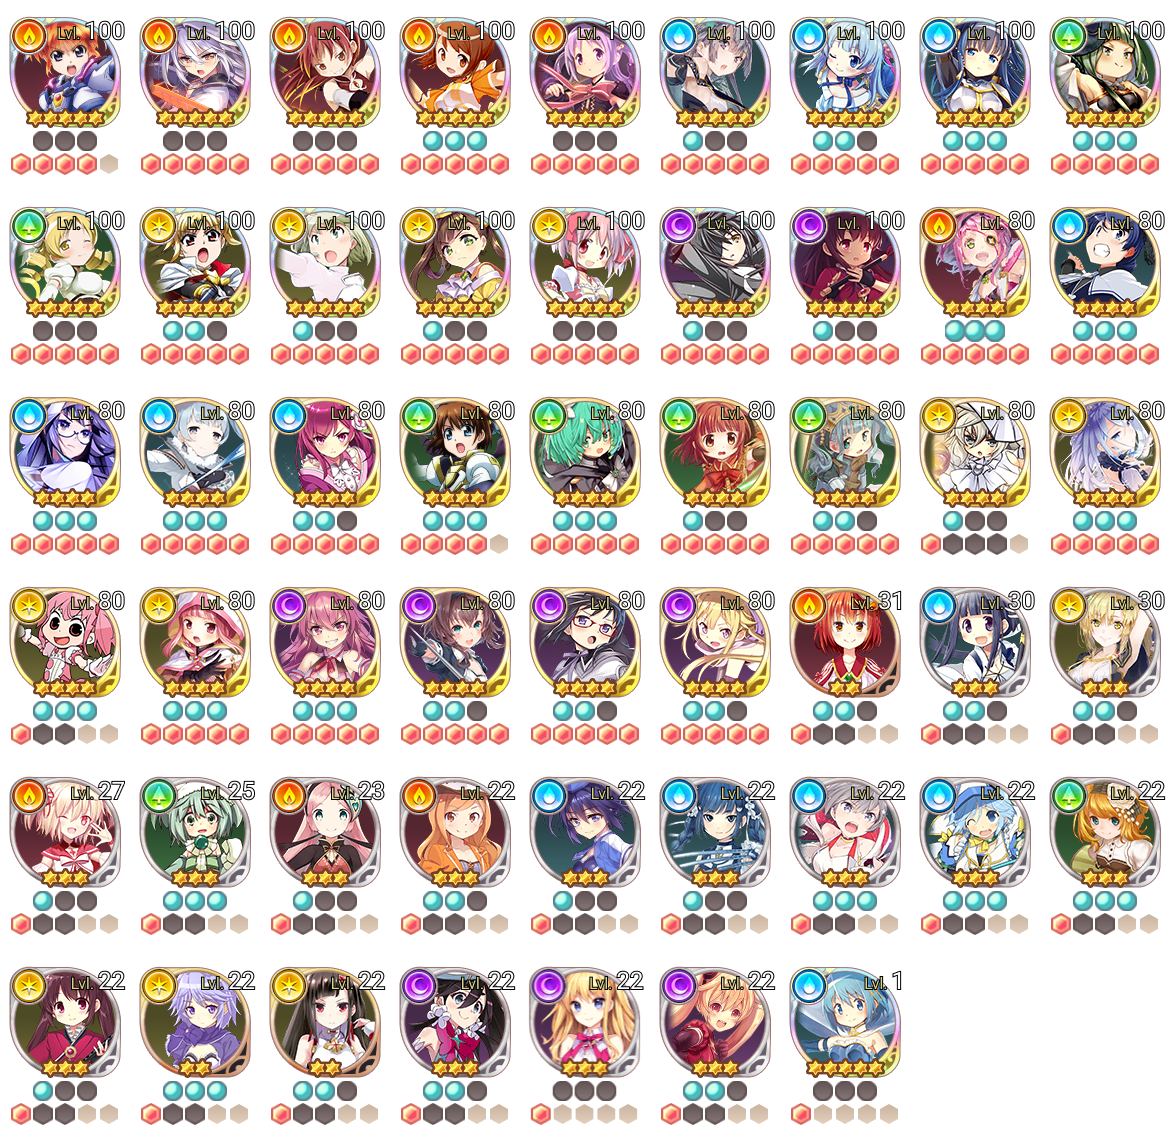
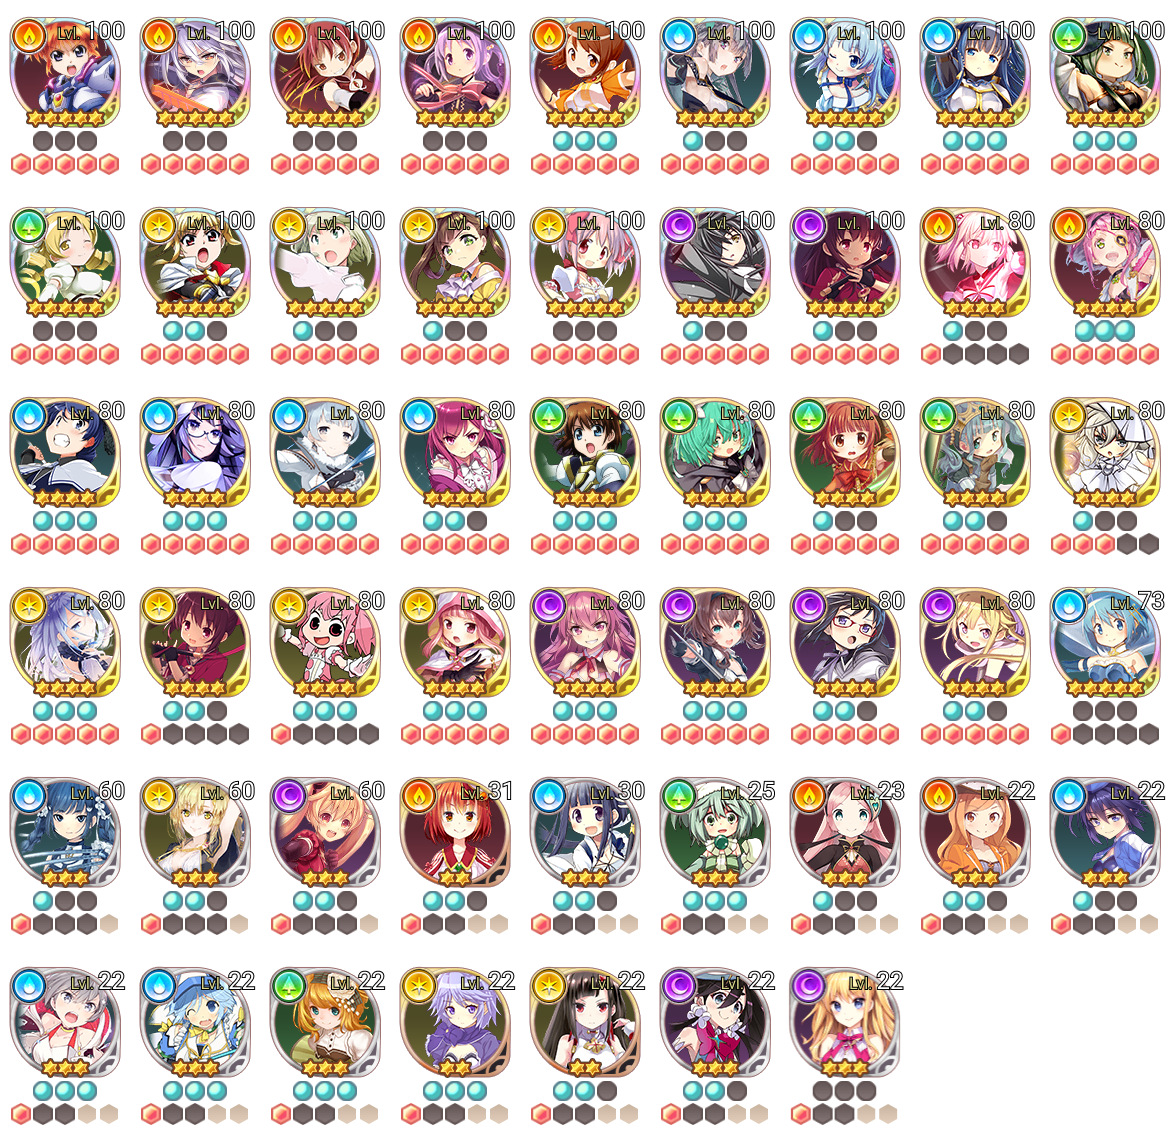
Improved Sorting and Version Compare
Added Second Sort Parameter.
Added Group By Direction.
Updated Document Version Comparison.

diff --git a/src/character.ts b/src/character.ts
@@ -113,23 +113,23 @@ function setCharacter (instance: InstanceNode, attribute: string, rank: string, 
     background_instance.masterComponent = figma.getNodeById("1:118") as ComponentNode;
   }
 
-  if (rank == "1") {
+  if (rank == "One") {
     frame_intance.masterComponent = figma.getNodeById("1:97") as ComponentNode;
     star_instance.masterComponent = figma.getNodeById("1:124") as ComponentNode;
   }
-  else if (rank == "2") {
+  else if (rank == "Two") {
     frame_intance.masterComponent = figma.getNodeById("1:98") as ComponentNode;
     star_instance.masterComponent = figma.getNodeById("1:125") as ComponentNode;
   }
-  else if (rank == "3") {
+  else if (rank == "Three") {
     frame_intance.masterComponent = figma.getNodeById("1:99") as ComponentNode;
     star_instance.masterComponent = figma.getNodeById("1:126") as ComponentNode;
   }
-  else if (rank == "4") {
+  else if (rank == "Four") {
     frame_intance.masterComponent = figma.getNodeById("1:100") as ComponentNode;
     star_instance.masterComponent = figma.getNodeById("1:127") as ComponentNode;
   }
-  else if (rank == "5") {
+  else if (rank == "Five") {
     frame_intance.masterComponent = figma.getNodeById("1:101") as ComponentNode;
     star_instance.masterComponent = figma.getNodeById("1:128") as ComponentNode;
   }
@@ -156,30 +156,30 @@ function setLevel (instance: InstanceNode, level: string) {
 // sets the magic level.
 function setMagic (instance: InstanceNode, magic: string) {
   var magic_instance = instance.children[1] as InstanceNode;
-  if      (magic == "0")   magic_instance.masterComponent = figma.getNodeById("3:896") as ComponentNode;
-  else if (magic == "1")   magic_instance.masterComponent = figma.getNodeById("3:13") as ComponentNode;
-  else if (magic == "2")   magic_instance.masterComponent = figma.getNodeById("7:470") as ComponentNode;
-  else if (magic == "3")   magic_instance.masterComponent = figma.getNodeById("7:477") as ComponentNode;
+  if      (magic == "Zero")   magic_instance.masterComponent = figma.getNodeById("3:896") as ComponentNode;
+  else if (magic == "One")   magic_instance.masterComponent = figma.getNodeById("3:13") as ComponentNode;
+  else if (magic == "Two")   magic_instance.masterComponent = figma.getNodeById("7:470") as ComponentNode;
+  else if (magic == "Three")   magic_instance.masterComponent = figma.getNodeById("7:477") as ComponentNode;
 };
 
 // sets the magia and episode level.
 function setMagia (instance: InstanceNode, magia: string, episode: string) {
   var magia_instance = instance.children[0] as InstanceNode;
-  if      (magia == "1" && episode == "1")   magia_instance.masterComponent = figma.getNodeById("10:1993") as ComponentNode;
-  else if (magia == "1" && episode == "2")   magia_instance.masterComponent = figma.getNodeById("10:1960") as ComponentNode;
-  else if (magia == "1" && episode == "3")   magia_instance.masterComponent = figma.getNodeById("10:1911") as ComponentNode;
-  else if (magia == "1" && episode == "4")   magia_instance.masterComponent = figma.getNodeById("10:1846") as ComponentNode;
-  else if (magia == "1" && episode == "5")   magia_instance.masterComponent = figma.getNodeById("3:41") as ComponentNode;
-  else if (magia == "2" && episode == "2")   magia_instance.masterComponent = figma.getNodeById("10:1961") as ComponentNode;
-  else if (magia == "2" && episode == "3")   magia_instance.masterComponent = figma.getNodeById("10:1912") as ComponentNode;
-  else if (magia == "2" && episode == "4")   magia_instance.masterComponent = figma.getNodeById("10:1847") as ComponentNode;
-  else if (magia == "2" && episode == "5")   magia_instance.masterComponent = figma.getNodeById("7:496") as ComponentNode;
-  else if (magia == "3" && episode == "3")   magia_instance.masterComponent = figma.getNodeById("10:1913") as ComponentNode;
-  else if (magia == "3" && episode == "4")   magia_instance.masterComponent = figma.getNodeById("10:1848") as ComponentNode;
-  else if (magia == "3" && episode == "5")   magia_instance.masterComponent = figma.getNodeById("7:507") as ComponentNode;
-  else if (magia == "4" && episode == "4")   magia_instance.masterComponent = figma.getNodeById("10:1849") as ComponentNode;
-  else if (magia == "4" && episode == "5")   magia_instance.masterComponent = figma.getNodeById("7:514") as ComponentNode;
-  else if (magia == "5" && episode == "5")   magia_instance.masterComponent = figma.getNodeById("7:521") as ComponentNode;
+  if      (magia == "One" && episode == "One")   magia_instance.masterComponent = figma.getNodeById("10:1993") as ComponentNode;
+  else if (magia == "One" && episode == "Two")   magia_instance.masterComponent = figma.getNodeById("10:1960") as ComponentNode;
+  else if (magia == "One" && episode == "Three")   magia_instance.masterComponent = figma.getNodeById("10:1911") as ComponentNode;
+  else if (magia == "One" && episode == "Four")   magia_instance.masterComponent = figma.getNodeById("10:1846") as ComponentNode;
+  else if (magia == "One" && episode == "Five")   magia_instance.masterComponent = figma.getNodeById("3:41") as ComponentNode;
+  else if (magia == "Two" && episode == "Two")   magia_instance.masterComponent = figma.getNodeById("10:1961") as ComponentNode;
+  else if (magia == "Two" && episode == "Three")   magia_instance.masterComponent = figma.getNodeById("10:1912") as ComponentNode;
+  else if (magia == "Two" && episode == "Four")   magia_instance.masterComponent = figma.getNodeById("10:1847") as ComponentNode;
+  else if (magia == "Two" && episode == "Five")   magia_instance.masterComponent = figma.getNodeById("7:496") as ComponentNode;
+  else if (magia == "Three" && episode == "Three")   magia_instance.masterComponent = figma.getNodeById("10:1913") as ComponentNode;
+  else if (magia == "Three" && episode == "Four")   magia_instance.masterComponent = figma.getNodeById("10:1848") as ComponentNode;
+  else if (magia == "Three" && episode == "Five")   magia_instance.masterComponent = figma.getNodeById("7:507") as ComponentNode;
+  else if (magia == "Four" && episode == "Four")   magia_instance.masterComponent = figma.getNodeById("10:1849") as ComponentNode;
+  else if (magia == "Four" && episode == "Five")   magia_instance.masterComponent = figma.getNodeById("7:514") as ComponentNode;
+  else if (magia == "Five" && episode == "Five")   magia_instance.masterComponent = figma.getNodeById("7:521") as ComponentNode;
 };
 
 
@@ -211,23 +211,23 @@ function parametersValid (msg: any) {
       result.name_valid = true;
       if (child.name.includes("/Rank " + msg.rank)) {
         result.rank_valid = true;
-        if (msg.rank == "1") {
+        if (msg.rank == "One") {
           if (level >= 1 && level <= 40) result.level_valid = true;
           else result.message += "Experience Level must be between 1 and 40 for rank 1.\n";
         }
-        else if (msg.rank == "2") {
+        else if (msg.rank == "Two") {
           if (level >= 1 && level <= 50) result.level_valid = true;
           else result.message += "Experience Level must be between 1 and 50 for rank 2.\n";
         }
-        else if (msg.rank == "3") {
+        else if (msg.rank == "Three") {
           if (level >= 1 && level <= 60) result.level_valid = true;
           else result.message += "Experience Level must be between 1 and 60 for rank 3.\n";
         }
-        else if (msg.rank == "4") {
+        else if (msg.rank == "Four") {
           if (level >= 1 && level <= 80) result.level_valid = true;
           else result.message += "Experience Level must be between 1 and 80 for rank 4.\n";
         }
-        else if (msg.rank == "5") {
+        else if (msg.rank == "Five") {
           if (level >= 1 && level <= 100) result.level_valid = true;
           else result.message += "Experience Level must be between 1 and 100 for rank 5.\n";
         }
@@ -309,7 +309,9 @@ function isCharacterDisplayInstance(node: SceneNode) {
   else return false;
 }
 
-function sortDisplays(group_by: string, sort_by: string, sort_dir: number, sort_id_dir: number, num_per_row: number) {
+const ATTRIBUTE_ORDER = {"Fire": 0, "Water": 1, "Forest": 2, "Light": 3, "Dark": 4, "Void": 5};
+
+function sortDisplays(group_by: string, group_dir: number, sort_by_1: string, sort_dir_1: number, sort_by_2: string, sort_dir_2: number, sort_id_dir: number, num_per_row: number) {
   
   // get the display properties of all the children in the frame.
   var display_properties = [];
@@ -318,12 +320,26 @@ function sortDisplays(group_by: string, sort_by: string, sort_dir: number, sort_
   });
 
   // add each display_property to the corresponding group.
-  var display_groups = group_properties(display_properties, group_by);
+  var display_groups = group_properties(display_properties, group_by, group_dir);
+
+  // convert attributes to numbers.
+  for (var group_name in display_groups) {
+    var group = display_groups[group_name];
+    group.forEach(function(properties: any) {
+      var attribute = properties["attribute"];
+      properties["attribute"] = ATTRIBUTE_ORDER[attribute];
+    })
+  }
   
   // sort each group by the specified property.
-  var sortBy = [
-    { prop: sort_by, direction: sort_dir, isString: false },
-    { prop: "id", direction: sort_id_dir, isString: false }];
+  var sortBy = [];
+  if (sort_by_1 != "none") {
+    sortBy.push({ prop: sort_by_1, direction: sort_dir_1, isString: false });
+  }
+  if (sort_by_2 != "none") {
+    sortBy.push({ prop: sort_by_2, direction: sort_dir_2, isString: false });
+  }
+  sortBy.push({ prop: "id", direction: sort_id_dir, isString: false });
 
   for (var group in display_groups) {
     display_groups[group] = display_groups[group].sort((a: any, b: any) => sortArrayBy(a,b,sortBy));
@@ -332,33 +348,40 @@ function sortDisplays(group_by: string, sort_by: string, sort_dir: number, sort_
   placeCharacterDisplays(display_groups, num_per_row);
 }
 
+const NUM_TO_WORD = {"0": "Zero", "1": "One", "2": "Two", "3": "Three", "4": "Four", "5": "Five"};
+
 // adds each display_property to the corresponding group.
-function group_properties (display_properties: any[], group_by: string) {
+function group_properties (display_properties: any[], group_by: string, group_dir: number) {
   var display_groups = {};
   if (group_by == "attribute") {
-    display_groups = {"Fire": [], "Water": [], "Forest": [], "Light": [], "Dark": [], "Void": []};
+    if (group_dir == 1) display_groups = {"Fire": [], "Water": [], "Forest": [], "Light": [], "Dark": [], "Void": []};
+    if (group_dir == -1) display_groups = {"Void": [], "Dark": [], "Light": [], "Forest": [], "Water": [], "Fire": []};
     display_properties.forEach(function(properties) {
       display_groups[properties["attribute"]].push(properties);
     });
   } else if (group_by == "rank") {
-    display_groups = {"5": [], "4": [], "3": [], "2": [], "1": []};
+    if (group_dir == 1) display_groups = {"One": [], "Two": [], "Three": [], "Four": [], "Five": []};
+    if (group_dir == -1) display_groups = {"Five": [], "Four": [], "Three": [], "Two": [], "One": []};
     display_properties.forEach(function(properties) {
-      display_groups[properties["rank"]].push(properties);
+      display_groups[NUM_TO_WORD[properties["rank"]]].push(properties);
     });
   } else if (group_by == "magic") {
-    display_groups = {"3": [], "2": [], "1": [], "0": []};
+    if (group_dir == 1) display_groups = {"Zero": [], "One": [], "Two": [], "Three": []};
+    if (group_dir == -1) display_groups = {"Three": [], "Two": [], "One": [], "Zero": []};
     display_properties.forEach(function(properties) {
-      display_groups[properties["magic"]].push(properties);
+      display_groups[NUM_TO_WORD[properties["magic"]]].push(properties);
     });
   } else if (group_by == "magia") {
-    display_groups = {"5": [], "4": [], "3": [], "2": [], "1": []};
+    if (group_dir == 1) display_groups = {"One": [], "Two": [], "Three": [], "Four": [], "Five": []};
+    if (group_dir == -1) display_groups = {"Five": [], "Four": [], "Three": [], "Two": [], "One": []};
     display_properties.forEach(function(properties) {
-      display_groups[properties["magia"]].push(properties);
+      display_groups[NUM_TO_WORD[properties["magia"]]].push(properties);
     });
   } else if (group_by == "episode") {
-    display_groups = {"5": [], "4": [], "3": [], "2": [], "1": []};
+    if (group_dir == 1) display_groups = {"One": [], "Two": [], "Three": [], "Four": [], "Five": []};
+    if (group_dir == -1) display_groups = {"Five": [], "Four": [], "Three": [], "Two": [], "One": []};
     display_properties.forEach(function(properties) {
-      display_groups[properties["episode"]].push(properties);
+      display_groups[NUM_TO_WORD[properties["episode"]]].push(properties);
     });
   } else if (group_by == "none") {
     display_groups = {"none": []};

diff --git a/src/ui.html b/src/ui.html
@@ -82,7 +82,7 @@
             <div id="sorting_fields" align="left">
                 <table id="sorting_table" width=100%>
                     <tr>
-                        <td>Group By: 
+                        <td title="Group by this property.">Group By:</td>
                         <td><select id="group_by">
                                 <option selected value="Attribute">Attribute</option>
                                 <option value="Rank">Rank</option>
@@ -92,28 +92,51 @@
                                 <option value="None">None</option>
                             </select>
                         </td>
+                        <td><select id="group_dir">
+                            <option selected value="Ascending">Ascending</option>
+                            <option value="Descending">Descending</option>
+                            </select>
+                        </td>
                     </tr>
                     <tr>
-                        <td>Sort By: 
-                        <td><select id="sort_by">
+                        <td title="Sort by this property first.">Sort By 1:</td>
+                        <td><select id="sort_by_1">
+                                <option value="Attribute">Attribute</option>
                                 <option value="Rank">Rank</option>
                                 <option selected value="Level">Level</option>
                                 <option value="Magic">Magic</option>
                                 <option value="Magia">Magia</option>
                                 <option value="Episode">Episode</option>
+                                <option value="None">None</option>
+                            </select>
+                        </td>
+                        <td><select id="sort_dir_1">
+                            <option value="Ascending">Ascending</option>
+                            <option selected value="Descending">Descending</option>
                             </select>
                         </td>
                     </tr>
                     <tr>
-                        <td>Sort Direction: 
-                        <td><select id="sort_dir">
-                                <option value="Ascending">Ascending</option>
-                                <option selected value="Descending">Descending</option>
+                        <td title="Sort by this property second.">Sort By 2:</td>
+                        <td><select id="sort_by_2">
+                                <option value="Attribute">Attribute</option>
+                                <option value="Rank">Rank</option>
+                                <option value="Level">Level</option>
+                                <option value="Magic">Magic</option>
+                                <option value="Magia">Magia</option>
+                                <option value="Episode">Episode</option>
+                                <option selected value="None">None</option>
+                            </select>
+                        </td>
+                        <td><select id="sort_dir_2">
+                            <option value="Ascending">Ascending</option>
+                            <option selected value="Descending">Descending</option>
                             </select>
                         </td>
                     </tr>
                     <tr>
-                        <td>ID Sort Direction: 
+                        <td title="Sort by the id of the character last.">ID Sort Direction:</td>
+                        <td></td>
                         <td><select id="sort_id_dir">
                                 <option value="Ascending">Ascending</option>
                                 <option selected value="Descending">Descending</option>

diff --git a/src/ui.ts b/src/ui.ts
@@ -32,8 +32,11 @@ const ui = {
     sorting: {
       fields: {
         group_select:        document.getElementById('group_by') as HTMLSelectElement,
-        sort_select:         document.getElementById('sort_by') as HTMLSelectElement,
-        sort_dir_select:     document.getElementById('sort_dir') as HTMLSelectElement,
+        group_dir_select:        document.getElementById('group_dir') as HTMLSelectElement,
+        sort_by_1_select:         document.getElementById('sort_by_1') as HTMLSelectElement,
+        sort_dir_1_select:     document.getElementById('sort_dir_1') as HTMLSelectElement,
+        sort_by_2_select:         document.getElementById('sort_by_2') as HTMLSelectElement,
+        sort_dir_2_select:     document.getElementById('sort_dir_2') as HTMLSelectElement,
         sort_id_dir_select:  document.getElementById('sort_id_dir') as HTMLSelectElement,
         row_field:           document.getElementById('displays_per_row') as HTMLInputElement,
       },
@@ -169,11 +172,14 @@ document.getElementById('convert').onclick = () => {
 // Group and sort the current selection.
 document.getElementById('sort').onclick = () => {
   const group_by = ui.tabs.sorting.fields.group_select.value.toLowerCase();
-  const sort_by = ui.tabs.sorting.fields.sort_select.value.toLowerCase();
-  const sort_dir = ui.tabs.sorting.fields.sort_dir_select.value == "Ascending" ? 1 : -1;
+  const group_dir = ui.tabs.sorting.fields.group_dir_select.value == "Ascending" ? 1 : -1;
+  const sort_by_1 = ui.tabs.sorting.fields.sort_by_1_select.value.toLowerCase();
+  const sort_dir_1 = ui.tabs.sorting.fields.sort_dir_1_select.value == "Ascending" ? 1 : -1;
+  const sort_by_2 = ui.tabs.sorting.fields.sort_by_2_select.value.toLowerCase();
+  const sort_dir_2 = ui.tabs.sorting.fields.sort_dir_2_select.value == "Ascending" ? 1 : -1;
   const sort_id_dir = ui.tabs.sorting.fields.sort_id_dir_select.value == "Ascending" ? 1 : -1;
   const num_per_row = parseInt(ui.tabs.sorting.fields.row_field.value);
-  parent.postMessage({ pluginMessage: { type: 'sort-displays', group_by: group_by, sort_by: sort_by, sort_dir: sort_dir, sort_id_dir: sort_id_dir, num_per_row: num_per_row} }, '*')
+  parent.postMessage({ pluginMessage: { type: 'sort-displays', group_by: group_by, group_dir: group_dir, sort_by_1: sort_by_1, sort_dir_1: sort_dir_1, sort_by_2: sort_by_2, sort_dir_2: sort_dir_2, sort_id_dir: sort_id_dir, num_per_row: num_per_row} }, '*')
 }
 
 // Convert the selected frames into instances.

diff --git a/src/code.ts b/src/code.ts
@@ -1,4 +1,4 @@
-import {getNames, getAttributeRanks, getDisplayProperties, ButtonOptionsModel} from "./utils";
+import {getNames, getAttributeRanks, getDisplayProperties, compareVersion, ButtonOptionsModel} from "./utils";
 import {getBackgroundNames, isBackgroundInstance, updateBackground, setBackgroundSizeLocation, removeBackground } from "./background";
 import {createDisplay, setLocation, updateDisplay, convertToCharacterDisplay, isCharacterDisplay, isCharacterDisplayInstance, sortDisplays} from "./character";
 
@@ -111,7 +111,7 @@ figma.ui.onmessage = msg => {
     else {
       // check the version of the project file.
       var documentVersionText = figma.getNodeById("474:5384");
-      if (documentVersionText == null || documentVersionText.type != "TEXT" || (documentVersionText as TextNode).characters != documentVersion) {
+      if (documentVersionText == null || documentVersionText.type != "TEXT" || compareVersion((documentVersionText as TextNode).characters, documentVersion)) {
         if (documentVersionText != null && documentVersionText.type == "TEXT") {
           console.log("Expected: " + documentVersion + " Found: " + (documentVersionText as TextNode).characters);
         }
@@ -156,7 +156,7 @@ figma.ui.onmessage = msg => {
 
   // sort the Character Displays in the selected frame.
   else if (msg.type === 'sort-displays') {
-    sortDisplays(msg.group_by, msg.sort_by, msg.sort_dir, msg.sort_id_dir, msg.num_per_row);
+    sortDisplays(msg.group_by, msg.group_dir, msg.sort_by_1, msg.sort_dir_1, msg.sort_by_2, msg.sort_dir_2, msg.sort_id_dir, msg.num_per_row);
   }
 
   // update the list of background names for the selected background type.

diff --git a/src/utils.ts b/src/utils.ts
@@ -95,6 +95,29 @@ function printFrameDisplays(selection: SceneNode) {
   });
 }
 
+function compareVersion(documentCharacters: string, expectedCharacters: string) {
+  if (documentCharacters != expectedCharacters) {
+    if (!documentCharacters.match(RegExp("Document Version: [0-9](.[0-9])*"))) {
+      console.log("text modified");
+      return 1;
+    }
+    var result = documentCharacters.match(RegExp("[0-9](.[0-9])*"));
+    var expected = expectedCharacters.match(RegExp("[0-9](.[0-9])*"));
+    console.log(result, expected);
+    console.log(parseFloat(result[0]), parseFloat(expected[0]));
+    if (parseFloat(result[0]) >= parseFloat(expected[0])) {
+      // console.log("same or greater version");
+      return 0;
+    } else {
+      console.log("different version");
+      return 1;
+    }
+  } else {
+    // console.log("same text");
+    return 0;
+  }
+}
+
 class ButtonOptionsModel {
   copy: boolean = false;
   update: boolean = false;
@@ -150,4 +173,4 @@ function sortArrayBy(a: any, b: any, sortBy: any[]) {
   return result;
 }
 
-export {getNames, getAttributeRanks, getCharacterId, getDisplayProperties, printFrameDisplays, ButtonOptionsModel, sortArrayBy};
+export {getNames, getAttributeRanks, getCharacterId, getDisplayProperties, compareVersion, printFrameDisplays, ButtonOptionsModel, sortArrayBy};

diff --git a/README.md b/README.md
@@ -54,7 +54,7 @@ This plugin is for creating a grid view of your Magical Girls in the game [Magia
 ### Grouping and Sorting List
 1. Navigate to the `Sorting` tab.
 2. Select a frame containing only Character Displays.
-3. Select the property to group by, the property to sort by, the sorting direction, the direction to sort the ID's (the second property to sort by), and the number of Character Displays per row.
+3. Select the property to group by, the property(s) to sort by, the grouping and sorting direction(s), the direction to sort the ID's (the last property to sort by), and the number of Character Displays per row.
 4. Press `Sort`.
 
 ### Adding Background to List
